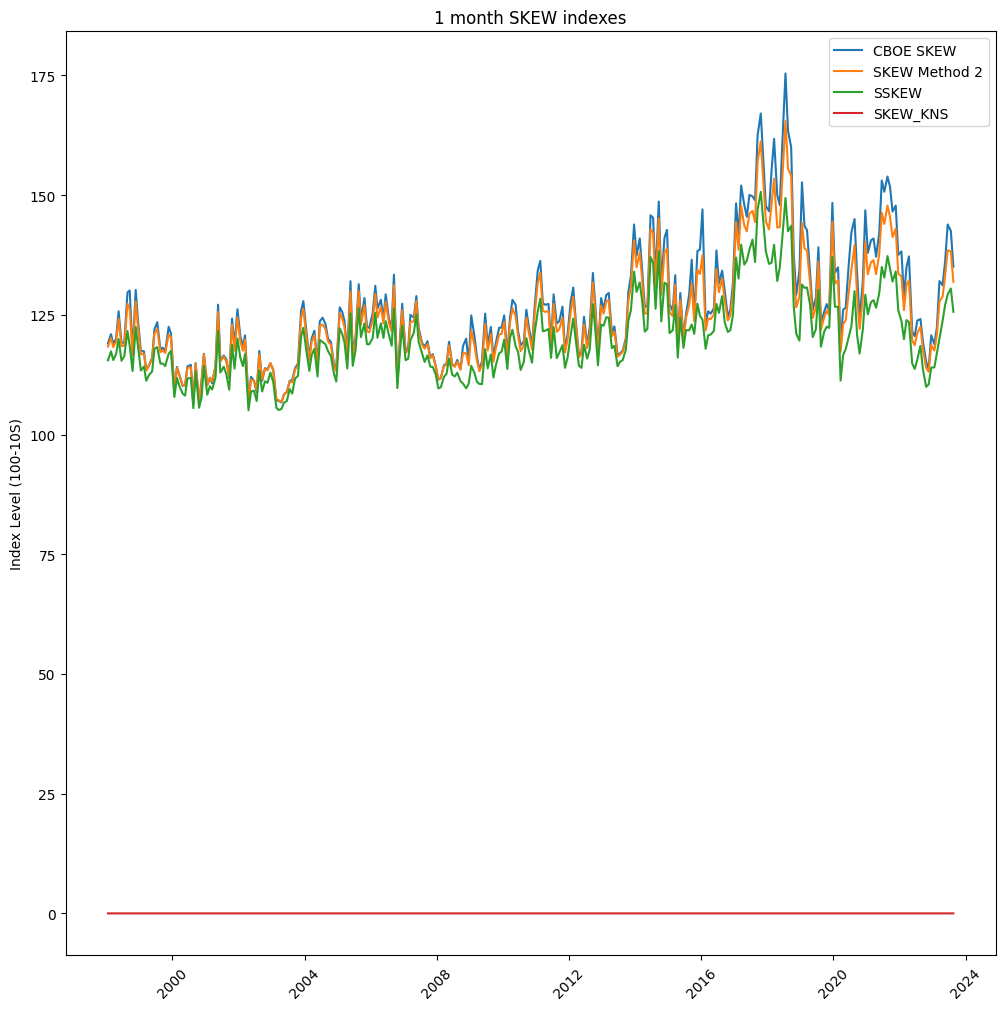
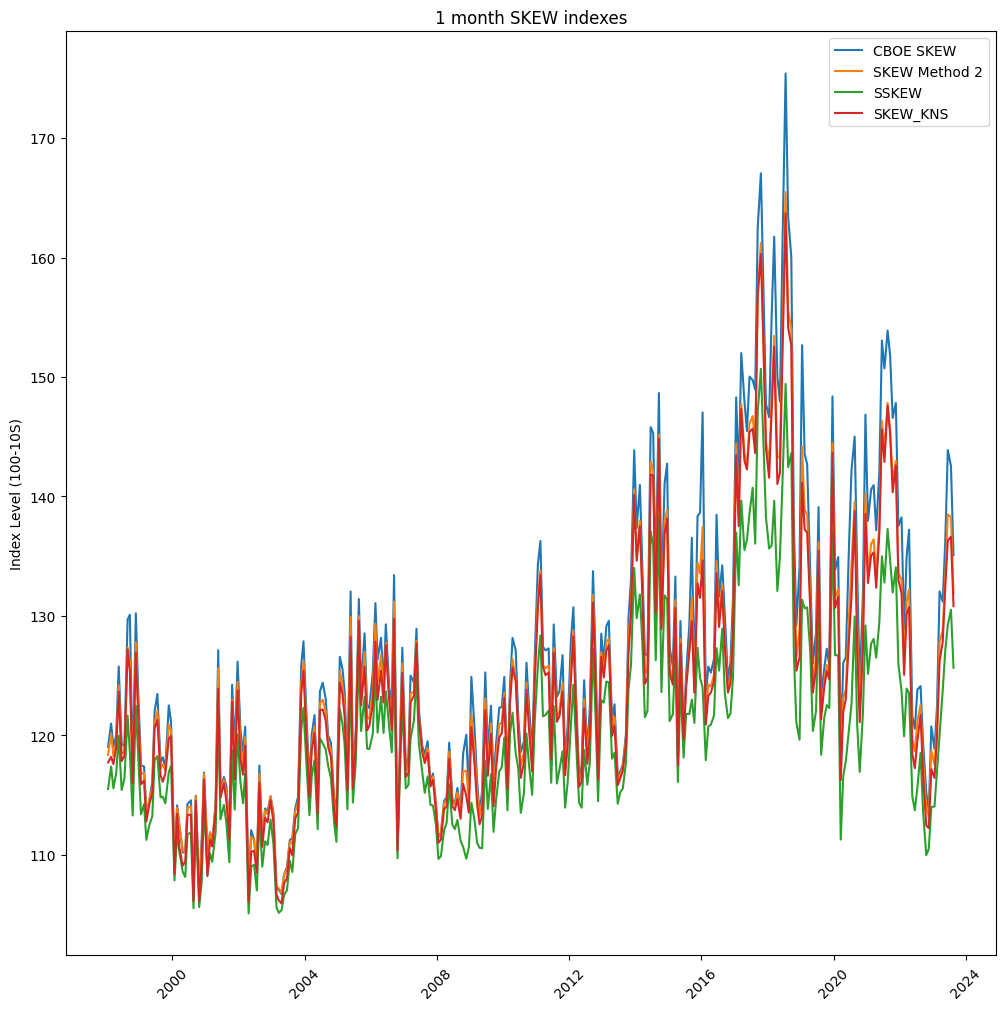
fixing scaling in plots

diff --git a/helpers.py b/helpers.py
@@ -1036,9 +1036,14 @@ def index_time_series(monthly_portfolios):
         #print(f'{i} month')
         #for method in ['CBOE SKEW','SKEW Method 2','SSKEW']:
         for method in skew_methods:
-            plt.plot(pd.to_datetime(monthly_portfolios.modified_trade_date),
-                    monthly_portfolios[f'{i} month {method}'],
+            if method=='SKEW_KNS':
+                plt.plot(pd.to_datetime(monthly_portfolios.modified_trade_date),
+                    monthly_portfolios[f'{i} month {method}_scaled'],
                     label=f'{method}',)
+            else:
+                plt.plot(pd.to_datetime(monthly_portfolios.modified_trade_date),
+                        monthly_portfolios[f'{i} month {method}'],
+                        label=f'{method}',)
         #plt.axhline(y=0, color='r', linestyle='--') 
         plt.title(f'{i} month SKEW indexes')
         #plt.xlabel('$t$')
@@ -1053,7 +1058,7 @@ def index_time_series(monthly_portfolios):
 
         #display(monthly_portfolios[[f'{i} month {m}' for m in skew_methods]].corr().round(2))
         corr_mtx=monthly_portfolios[[f'{i} month {m}' for m in skew_methods]].corr().round(2)
-        corr_mtx.to_csv(f'outputs/index time series/{i} month Skew Inex Correlations')
+        corr_mtx.to_csv(f'outputs/index time series/{i} month Skew Inex Correlations.csv')
 
 
 def expectation_hypothesis_regressions(monthly_portfolios,cutoff_year=None):
